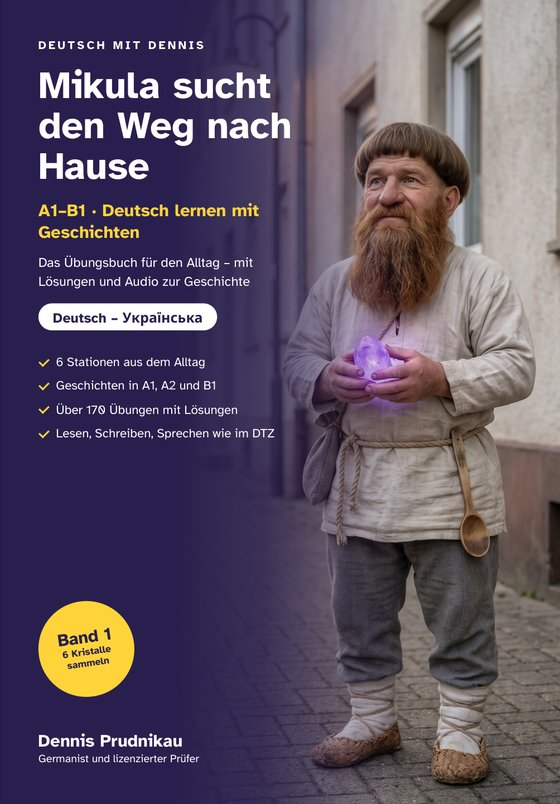
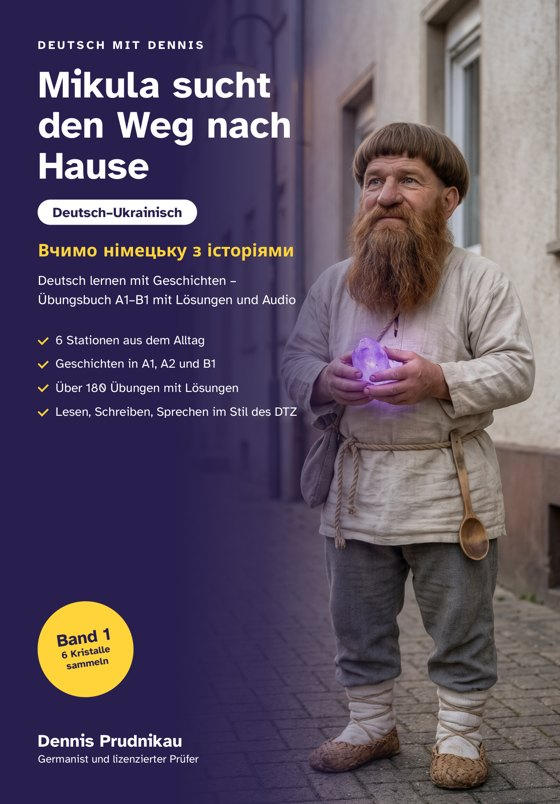
Books: update four Mikula entries (pages, exercises, covers)

diff --git a/site-data.js b/site-data.js
@@ -973,14 +973,14 @@ DM.books = [
     desc: 'Rund 700 wichtige Wörter in 24 Themen – von Wohnen und Einkaufen bis Amt, Arbeit und Gesundheit. Jedes Wort mit Artikel, Plural, Übersetzung ins Persische und Beispielsatz, dazu Dialoge und Übungen.' },
   { id: 'wortschatz-en', img: 'assets/buecher/wortschatz-en.jpg?v=2', title: 'Deutscher Wortschatz nach Themen – Deutsch–Englisch', level: 'A1–B1', target: 'Alltag & Beruf', pages: 150, price: '16,99 €', amazon: '',
     desc: 'Rund 700 wichtige Wörter in 24 Themen – von Wohnen und Einkaufen bis Amt, Arbeit und Gesundheit. Jedes Wort mit Artikel, Plural, Übersetzung ins Englische und Beispielsatz, dazu Dialoge und Übungen.' },
-  { id: 'mikula-uk', img: 'assets/buecher/mikula-uk.jpg', title: 'Mikula sucht den Weg nach Hause – Deutsch–Ukrainisch', level: 'A1–B1', target: 'Alltag & DTZ', pages: 210, price: '16,99 €', amazon: 'https://www.amazon.de/dp/B0HQY8C8RF',
-    desc: 'Mikula kommt aus dem Jahr 1024 und muss im Deutschland von heute zurechtkommen. 6 Stationen aus dem Alltag, jede Geschichte in A1, A2 und B1, über 170 Übungen mit Lösungen und Hörtexte per QR-Code. Anleitungen und Grammatik auf Ukrainisch.' },
-  { id: 'mikula-ar', img: 'assets/buecher/mikula-ar.jpg', title: 'Mikula sucht den Weg nach Hause – Deutsch–Arabisch', level: 'A1–B1', target: 'Alltag & DTZ', pages: 224, price: '16,99 €', amazon: 'https://www.amazon.de/dp/B0HQY345BC',
-    desc: 'Mikula kommt aus dem Jahr 1024 und muss im Deutschland von heute zurechtkommen. 6 Stationen aus dem Alltag, jede Geschichte in A1, A2 und B1, über 170 Übungen mit Lösungen und Hörtexte per QR-Code. Anleitungen und Grammatik auf Arabisch.' },
-  { id: 'mikula-ru', img: 'assets/buecher/mikula-ru.jpg', title: 'Mikula sucht den Weg nach Hause – Deutsch–Russisch', level: 'A1–B1', target: 'Alltag & DTZ', pages: 205, price: '16,99 €', amazon: 'https://www.amazon.de/dp/B0HS3N6NYG',
-    desc: 'Mikula kommt aus dem Jahr 1024 und muss im Deutschland von heute zurechtkommen. 6 Stationen aus dem Alltag, jede Geschichte in A1, A2 und B1, über 170 Übungen mit Lösungen und Hörtexte per QR-Code. Anleitungen und Grammatik auf Russisch.' },
-  { id: 'mikula-tr', img: 'assets/buecher/mikula-tr.jpg', title: 'Mikula sucht den Weg nach Hause – Deutsch–Türkisch', level: 'A1–B1', target: 'Alltag & DTZ', pages: 211, price: '16,99 €', amazon: 'https://www.amazon.de/dp/B0HS3GLBSH',
-    desc: 'Mikula kommt aus dem Jahr 1024 und muss im Deutschland von heute zurechtkommen. 6 Stationen aus dem Alltag, jede Geschichte in A1, A2 und B1, über 170 Übungen mit Lösungen und Hörtexte per QR-Code. Anleitungen und Grammatik auf Türkisch.' },
+  { id: 'mikula-uk', img: 'assets/buecher/mikula-uk.jpg?v=2', title: 'Mikula sucht den Weg nach Hause – Deutsch–Ukrainisch', level: 'A1–B1', target: 'Alltag & DTZ', pages: 217, price: '16,99 €', amazon: 'https://www.amazon.de/dp/B0HQY8C8RF',
+    desc: 'Mikula kommt aus dem Jahr 1024 und muss im Deutschland von heute zurechtkommen. 6 Stationen aus dem Alltag, jede Geschichte in A1, A2 und B1, über 180 Übungen mit Lösungen und Hörtexte per QR-Code. Anleitungen und Grammatik auf Ukrainisch.' },
+  { id: 'mikula-ar', img: 'assets/buecher/mikula-ar.jpg?v=2', title: 'Mikula sucht den Weg nach Hause – Deutsch–Arabisch', level: 'A1–B1', target: 'Alltag & DTZ', pages: 232, price: '16,99 €', amazon: 'https://www.amazon.de/dp/B0HQY345BC',
+    desc: 'Mikula kommt aus dem Jahr 1024 und muss im Deutschland von heute zurechtkommen. 6 Stationen aus dem Alltag, jede Geschichte in A1, A2 und B1, über 180 Übungen mit Lösungen und Hörtexte per QR-Code. Anleitungen und Grammatik auf Arabisch.' },
+  { id: 'mikula-ru', img: 'assets/buecher/mikula-ru.jpg?v=2', title: 'Mikula sucht den Weg nach Hause – Deutsch–Russisch', level: 'A1–B1', target: 'Alltag & DTZ', pages: 211, price: '16,99 €', amazon: 'https://www.amazon.de/dp/B0HS3N6NYG',
+    desc: 'Mikula kommt aus dem Jahr 1024 und muss im Deutschland von heute zurechtkommen. 6 Stationen aus dem Alltag, jede Geschichte in A1, A2 und B1, über 180 Übungen mit Lösungen und Hörtexte per QR-Code. Anleitungen und Grammatik auf Russisch.' },
+  { id: 'mikula-tr', img: 'assets/buecher/mikula-tr.jpg?v=2', title: 'Mikula sucht den Weg nach Hause – Deutsch–Türkisch', level: 'A1–B1', target: 'Alltag & DTZ', pages: 219, price: '16,99 €', amazon: 'https://www.amazon.de/dp/B0HS3GLBSH',
+    desc: 'Mikula kommt aus dem Jahr 1024 und muss im Deutschland von heute zurechtkommen. 6 Stationen aus dem Alltag, jede Geschichte in A1, A2 und B1, über 180 Übungen mit Lösungen und Hörtexte per QR-Code. Anleitungen und Grammatik auf Türkisch.' },
   { id: 'mikula-fa', img: 'assets/buecher/mikula-fa.jpg', title: 'Mikula sucht den Weg nach Hause – Deutsch–Persisch', level: 'A1–B1', target: 'Alltag & DTZ', pages: 225, price: '16,99 €', amazon: 'https://www.amazon.de/dp/B0HSW8RG2N',
     desc: 'Mikula kommt aus dem Jahr 1024 und muss im Deutschland von heute zurechtkommen. 6 Stationen aus dem Alltag, jede Geschichte in A1, A2 und B1, über 180 Übungen mit Lösungen und Hörtexte per QR-Code. Anleitungen und Grammatik auf Persisch.' }
 ];

diff --git a/index.html b/index.html
@@ -81,7 +81,7 @@
 <script defer src="ukrainian.js?v=20261008e"></script>
 <script defer src="learning-tools.js?v=20261008e"></script>
 <script defer src="learner-paths.js?v=20261110a"></script>
-<script defer src="site-data.js?v=20261125b"></script>
+<script defer src="site-data.js?v=20261125c"></script>
 <script defer src="affiliate.js?v=20261104b"></script>
 <script defer src="lid-katalog.js?v=20261111n"></script>
 <script defer src="lid-bilder-alt.js?v=20261110a"></script>
